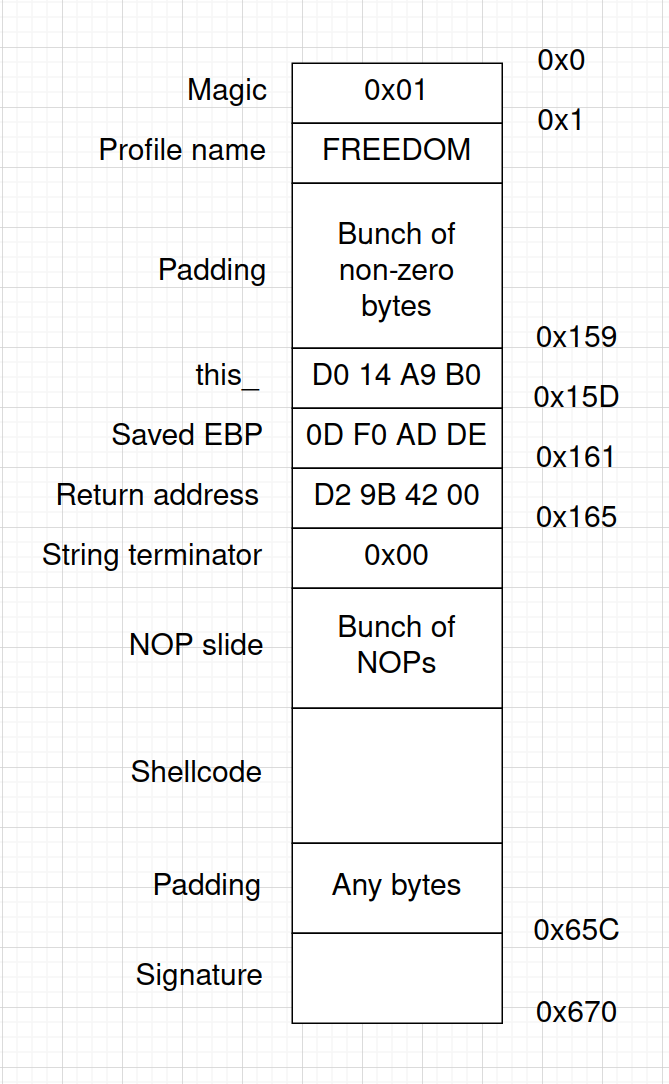
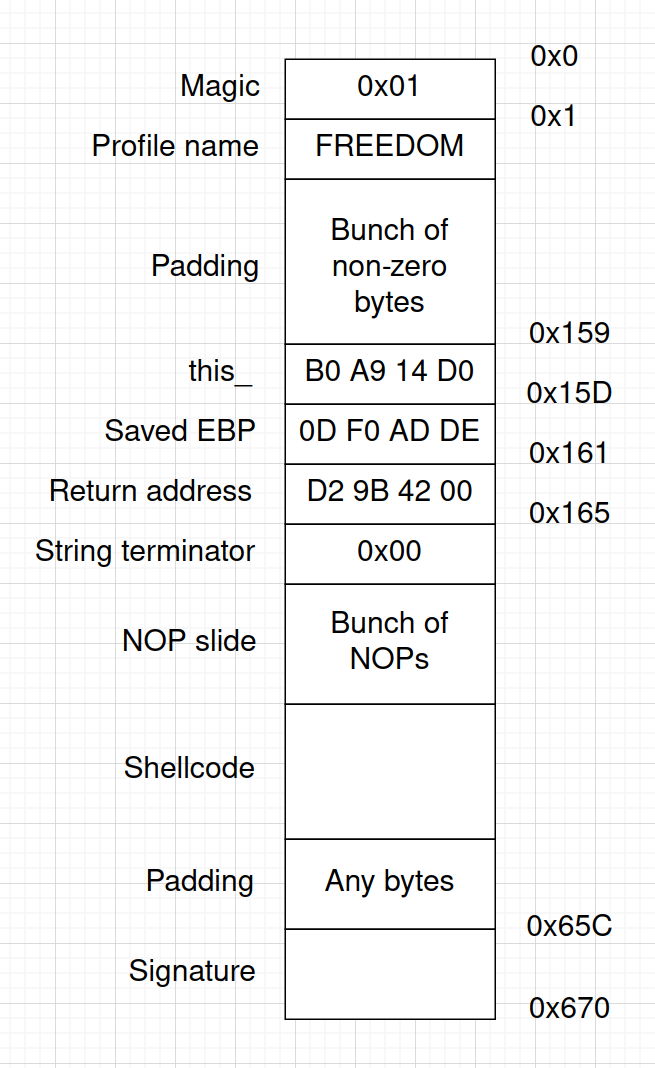
Small fixes in the Frogger article

diff --git a/posts/xbox-frogger-beyond-exploit/index.html b/posts/xbox-frogger-beyond-exploit/index.html
@@ -151,7 +151,7 @@ signature = HMAC(derived_key, savefile_data, SHA1)
 </ul>
 <p>Now, there&rsquo;s an interesting bit. During his <a href="https://youtu.be/82vf0JQS1Sk?t=3379" target="_blank">talk at the 22C3</a>, Michael Steil mentioned Frogger Beyond among the rest of the exploited games. However, this is the only mention of this game, and there&rsquo;s no exploit in public for it. And since I was already playing with the Xbox internals, I decided to figure out how can the Frogger be exploited.</p>
 <h2 id="prerequisite-debug-hardware">Prerequisite: debug hardware</h2>
-<p>It would be quite hard to learn about the program internals and to craft an exploit without a debugger. Fortunately for us, it&rsquo;s possible to convert a retail Xbox into a debug kit by adding the <a href="https://github.com/XboxDev/serial-usb-adapter" target="_blank">SuperIO board</a> to get the serial port connectivity and by running the debug system software. After doing that, you can debug the Xbox with WinDbg kernel debugger. <a href="http://windbg.info/doc/1-common-cmds.html" target="_blank">Here&rsquo;s a good referense of the WinDbg commands</a>.</p>
+<p>It would be quite hard to learn about the program internals and to craft an exploit without a debugger. Fortunately for us, it&rsquo;s possible to convert a retail Xbox into a debug kit by adding the <a href="https://github.com/XboxDev/serial-usb-adapter" target="_blank">SuperIO board</a> to get the serial port connectivity and by running the debug system software. After doing that, you can debug the Xbox with WinDbg kernel debugger. <a href="http://windbg.info/doc/1-common-cmds.html" target="_blank">Here&rsquo;s a good reference of the WinDbg commands</a>.</p>
 <p>Debug conversion is out of the scope of this article, but this is how my Xbox ended up hardware-wise:</p>
 <p><img class="img-zoomable" src="/xbox-frogger-beyond-exploit/hw1.jpg" alt="1" />
 
@@ -177,12 +177,12 @@ First of all, let&rsquo;s boot the game and play a bit until the game allows us 
 The debugger also shows us the call stack during the exception, the top entries of which are <code>0xd68ef</code> and <code>0xdd51e</code> (and the rest is a corrupted stack):</p>
 <p><img class="img-zoomable" src="/xbox-frogger-beyond-exploit/crash_call_stack.png" alt="1" />
 </p>
-<p>Another thing we can do is to search the RAM for the loaded savefiles. Fortunately for us, the game loads the first savefile to the memory address <code>0x00429bd2</code>:</p>
+<p>Another thing we can do is to search the RAM for the loaded savefiles. Fortunately for us, the game loads the first savefile to the memory address <code>0x00429918</code>:</p>
 <p><img class="img-zoomable" src="/xbox-frogger-beyond-exploit/savefile_in_memory1.png" alt="1" />
 
 <img class="img-zoomable" src="/xbox-frogger-beyond-exploit/savefile_in_memory2.png" alt="1" />
 </p>
-<p>Conveniently, the address remains the save between the reboots, so we don&rsquo;t need to copy our payload as part of the string, it&rsquo;s already waiting for us in the memory.</p>
+<p>Conveniently, the address remains the same between the reboots, so we don&rsquo;t need to copy our payload as part of the string, it&rsquo;s already waiting for us in the memory.</p>
 <h2 id="examining-the-executable-internals">Examining the executable internals</h2>
 <p>Now, let&rsquo;s fire up Ghidra and take a look at what&rsquo;s going on in the game executable by the addresses from the call stack.</p>
 <p>First comes the function containing the offset <code>0xdd51e</code>. In short, there&rsquo;s a big function for handling a lot of different stuff related to loading the savefiles of the game. Let&rsquo;s skip the Assembly and go straight to the decompilation of the interesting part. The instruction at the aforementioned offset is the next one after the <code>CALL</code> to the <code>my_presentAlert</code> function. Oh, by the way, all the symbols are stripped from the executable, what you see is what I was able to recover:</p>
@@ -308,7 +308,7 @@ Since at this point we&rsquo;re not planning to return back to the running game,
 </table>
 <h2 id="choosing-a-shellcode">Choosing a shellcode</h2>
 <p>Well, there are plenty of options to choose from. We can construct our own shellcode using parts of the existing ones, or just adapt an existing shellcode to our purposes. However, it&rsquo;s not really convenient to do that.</p>
-<p>Fortunately, we can take a slightly different route. There is a dashboard exploit called <a href="http://archiv.sega-dc.de/phoenix.maxconsole.net/docs/berternie.inc.htm" target="_blank">Bert &amp; Ernie</a> that exploits a vulnerability in the font loading code. I wasn&rsquo;t able to find the original exploit, but what I found instead is an <a href="https://github.com/Rocky5/Xbox-Softmodding-Tool/blob/master/App%20Sources/NKPatcher/Main%20NKP11/ernie.asm" target="_blank">offshoot of this exploit</a> as part of the NKPatcher 11 tool in Rocky5&rsquo;s softmod repository. It has all the pieces of the shellcode described above. More importantly, its Assembly source code is available. This basically makes it a DIY kit for our own exploit, especially since the code is portable due to the absence if the XAPI calls.</p>
+<p>Fortunately, we can take a slightly different route. There is a dashboard exploit called <a href="http://archiv.sega-dc.de/phoenix.maxconsole.net/docs/berternie.inc.htm" target="_blank">Bert &amp; Ernie</a> that exploits a vulnerability in the font loading code. I wasn&rsquo;t able to find the original exploit, but what I found instead is an <a href="https://github.com/Rocky5/Xbox-Softmodding-Tool/blob/master/App%20Sources/NKPatcher/Main%20NKP11/ernie.asm" target="_blank">offshoot of this exploit</a> as part of the NKPatcher 11 tool in Rocky5&rsquo;s softmod repository. It has all the pieces of the shellcode described above. More importantly, its Assembly source code is available. This basically makes it a DIY kit for our own exploit, especially since the code is portable due to the absence of the XAPI calls. In my exploit, I&rsquo;m going to use this shellcode with some modifications.</p>
 <h2 id="returning-to-shellcode">Returning to shellcode</h2>
 <p>Now since we have all the required bits, it&rsquo;s time for us to create an exploited savefile. We achieve that by doing the following:</p>
 <ul>
@@ -319,7 +319,7 @@ Since at this point we&rsquo;re not planning to return back to the running game,
 <li>Put a zero byte next, at the offset <code>0x165</code> to finally terminate the string. In our case, we don&rsquo;t need to copy any more bytes;</li>
 <li>Put a reasonably large NOP slide somewhere in the rest of the file followed by the shellcode. Since we don&rsquo;t directly control the address in memory where the whole savefile is loaded, it&rsquo;s better to have a NOP slide in case the data moves a bit in memory.</li>
 </ul>
-<p>Now let&rsquo;s go back to the return address. The savefile is loaded to the address <code>0x00429bd2</code>. By picking the address of the middle of the NOP slide in the savefile and adding it to the address above, I got a value of <code>0x00429bd2</code>. This creates a problem for us. Since the x86 CPU is little-endian, the address would be written backwards in the file, like <code>d2 8b 42 00</code> (as well as the rest of the values). As we remember, we can&rsquo;t include zero bytes in the string, since this is a string terminator. However, this is the last byte that we need to copy, so that should be fine, it will be both the most significant byte of the address and the string terminator.</p>
+<p>Now let&rsquo;s go back to the return address. The savefile is loaded to the address <code>0x00429918</code>. By picking the address of the middle of the NOP slide in the savefile and adding it to the address above, I got a value of <code>0x00429bd2</code>. This creates a problem for us. Since the x86 CPU is little-endian, the address would be written backwards in the file, like <code>d2 9b 42 00</code> (as well as the rest of the values). As we remember, we can&rsquo;t include zero bytes in the string, since this is a string terminator. However, this is the last byte that we need to copy, so that should be fine, it will be both the most significant byte of the address and the string terminator.</p>
 <p>This is what the end result looks like:</p>
 <p><img class="img-zoomable" src="/xbox-frogger-beyond-exploit/savefile1.png" alt="1" />
 </p>
@@ -398,7 +398,7 @@ And then I noticed the line 29. This call to <code>_strcpy</code> does precisely
 <p><img class="img-zoomable" src="/xbox-frogger-beyond-exploit/final_savefile.png" alt="1" />
 </p>
 <p>The missing part only contains the rest of the NOP slide.
-Sources of the exploit can be found <a href="https://github.com/agarmash/FroggerBeyondExploit/tree/master/source" target="_blank">here</a>, as well as the <a href="https://github.com/agarmash/FroggerBeyondExploit/tree/master/ready_to_go_savefile/" target="_blank">ready to use exploit</a>.</p>
+Sources of the exploit with the extensive comments can be found <a href="https://github.com/agarmash/FroggerBeyondExploit/tree/master/source" target="_blank">here</a>, as well as the <a href="https://github.com/agarmash/FroggerBeyondExploit/tree/master/ready_to_go_savefile/" target="_blank">ready to use exploit</a>.</p>
 <p>Please note that I tested the exploit on the modified Xbox. If you try to use it on a vanilla Xbox and something doesn&rsquo;t work, let me know so we can fix it for everyone. If it works, let me know as well :)</p>
 <h2 id="what-can-be-done-differently">What can be done differently</h2>
 <p>Instead of copying the bootstrap loader to the chosen place in RAM, we can copy the whole shellcode. However, it shouldn&rsquo;t contain any zero bytes, so it should be prepared for that at first.</p>
